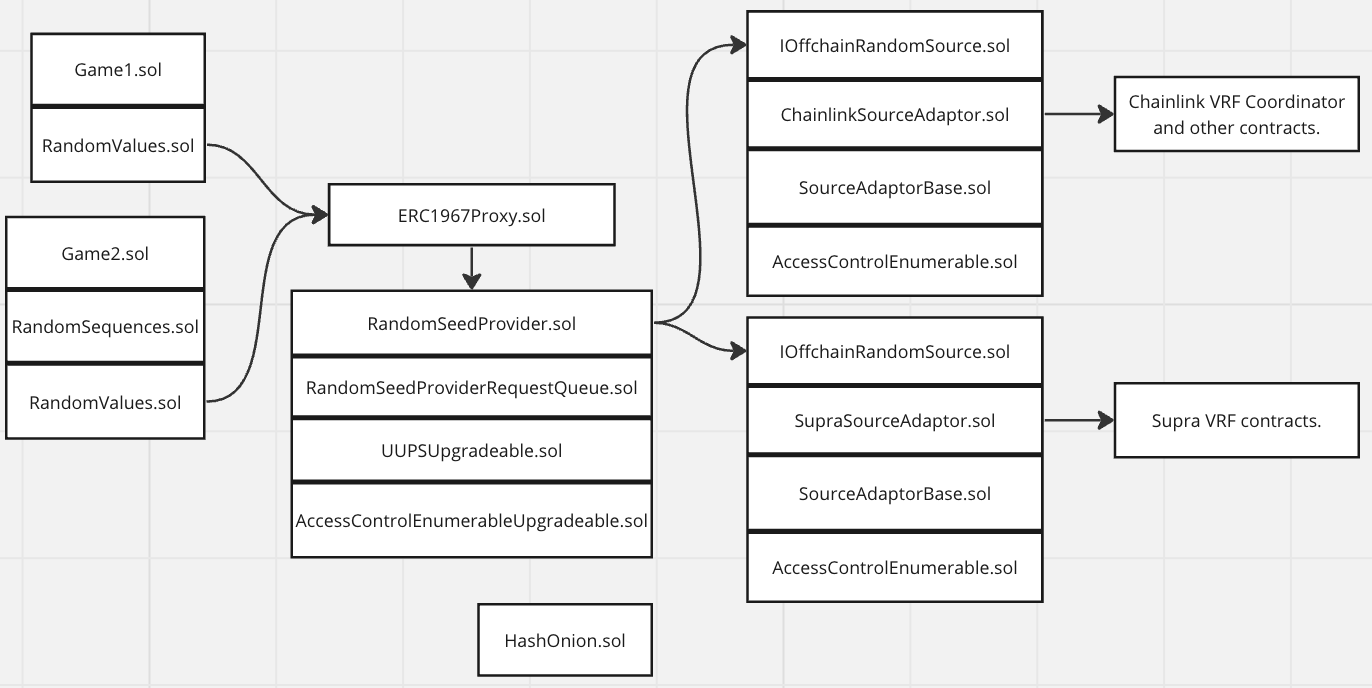
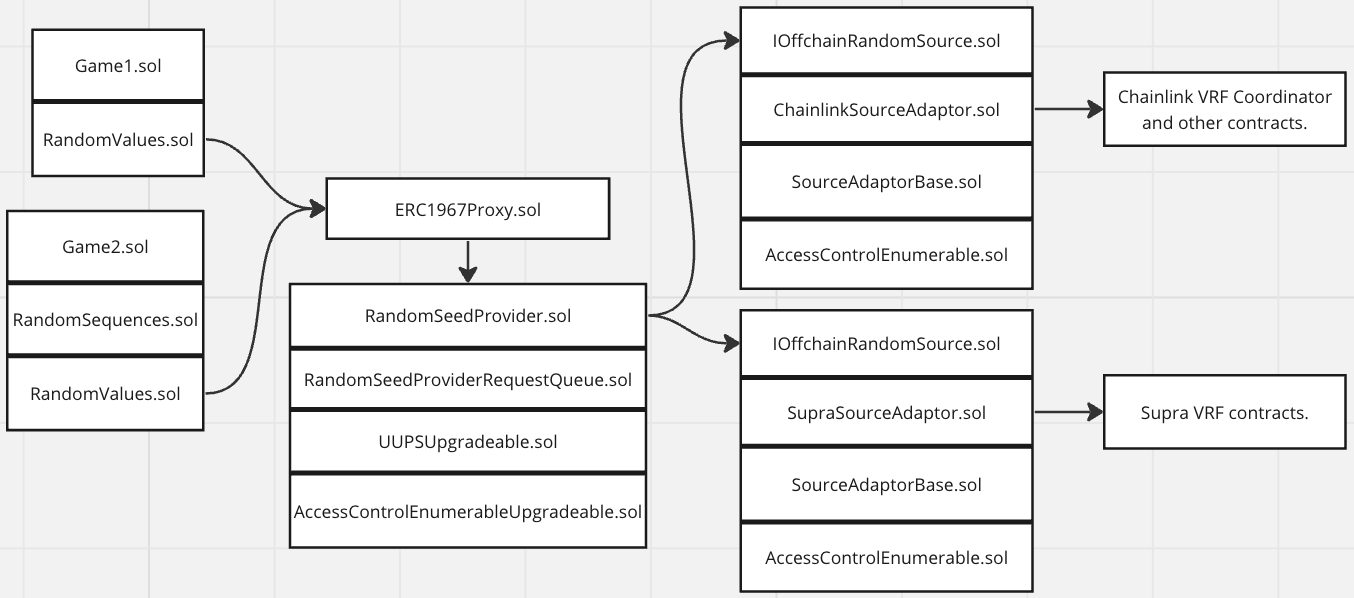
Remove metion of the hash onion contract

Changed region(s): [[0.0, 0.0, 1.0, 0.9933], [0.2171, 0.8428, 0.4963, 0.9933], [0.8065, 0.5418, 0.9926, 0.5719]]

diff --git a/audits/random/202403-threat-model-random.md b/audits/random/202403-threat-model-random.md
@@ -37,7 +37,6 @@ The threat model is limited to the following Solidity files at GitHash [TBD](TBD
 * [RandomSequences.sol](TBD)
 * [IOffchainRandomSource.sol](TBD)
 * [SourceAdaptorBase.sol](TBD)
-* [HashOnion.sol](TBD)
 
 
 
@@ -164,8 +163,6 @@ logic included in the `UUPSUpgradeable.sol` contract that `RandomSeedProvider.so
 The `RandomSeedProvider.sol` contract by default uses an on-chain random number source. It can be configured to use an off-chain random number source. This source is accessed via the `IOffchainRandomSource.sol` interface. To allow the flexibility to switch between off-chain random sources, there is an adaptor contract between the offchain random source contract and the random seed provider. Common logic for adaptor implementations is held in `SourceAdaptorBase.sol`.
 
 The `RandomSeedProvider.sol` contract uses a queue implemented in `RandomSeedProviderRequestQueue.sol` to hold outstanding requests for on-chain generated random seed values. Having a separate implementation more easily allows the code to be easily unit tested. 
-
-The HashOnion.sol contract implements a deterministic number source by incrementally revealing recursive hash pre-images. This allows values that are unknown to game players, but deterministic so that they can't be manipulated, to be put on chain during periods of low chain utilization. This is useful to increase the amount of entropy on the chain, thus making on-chain seed values more difficult to predict.
 
 The architecture diagram shows a ChainLink VRF source and a Supra VRF source. This is purely to show the possibility of integrating with one off-chain service and then, at a later point choosing to switch to an alternative off-chain source. At present, there is no agreement to use any specific off-chain source.
 
